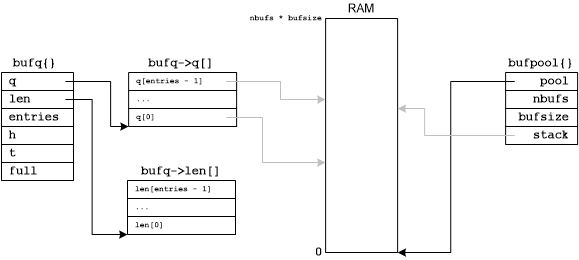
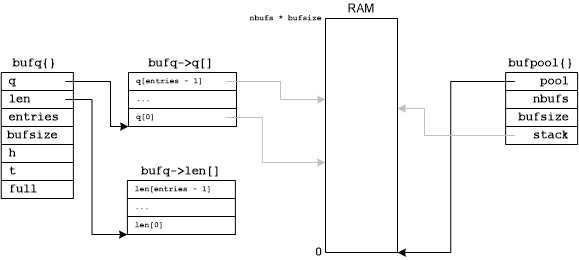
More work on bufq

diff --git a/src/bufq.cpp b/src/bufq.cpp
@@ -10,21 +10,25 @@
 // out of the buffers
 //
 
-bufq::bufq(int entries) {
+bufq::bufq(int entries, int bufsize) {
     int size = entries * sizeof(void *);
     this->q = (buf_t *) malloc(size);
     memset(this->q, 0, size);
 
     size = entries * sizeof(int);
-    this->size = (int *) malloc(size);
     this->len = (int *) malloc(size);
-    memset(this->size, 0, size);
     memset(this->len, 0, size);
 
     this->entries = entries;
+    this->bufsize = bufsize;
     this->h = 0;
     this->t = 0;
     this->full = false;
+}
+
+int
+bufq::get_bufsize() {
+    return this->bufsize;
 }
 
 //
@@ -48,12 +52,11 @@ bufq::get_length() {
 // Append a buf_t pointer to the tail of the queue
 //
 int
-bufq::append(buf_t buf, int size, int len) {
+bufq::append(buf_t buf, int len) {
     if (this->full)
         return (-1);
 
     this->q[t] = buf;
-    this->size[t] = size;
     this->len[t] = len;
     this->t = (this->t + 1) % this->entries;
     if (this->t == this->h)
@@ -66,13 +69,12 @@ bufq::append(buf_t buf, int size, int len) {
 // Remove a buf_t pointer from the head of the queue
 //
 buf_t
-bufq::remove(int *size, int *len) {
+bufq::remove(int *len) {
     if (!(this->full) && this->h == this->t) {
         *len = 0;
         return NULL;
     }
     buf_t buf = this->q[this->h];
-    *size = this->size[this->h];
     *len = this->len[this->h];
     this->h = (this->h + 1) % this->entries;
     if (this->full)
@@ -87,7 +89,7 @@ bufq::dump() {
         return;
 
     for (int i = this->h;;) {
-        printf("%p  %5d  %5d\r\n", this->q[i], this->size[i], this->len[i]);
+        printf("%p  %5d\r\n", this->q[i], this->len[i]);
 
         i = (i + 1) % this->entries;
         if (i == this->t)

diff --git a/include/buf.h b/include/buf.h
@@ -35,17 +35,18 @@ typedef class bufpool *bufpool_t;
 class bufq {
 private:
     buf_t *q;     // Array of buffer ptrs
-    int *size;    // Size of each buffer allocation
-    int *len;     // Current length of data contained in buffer <= size
+    int *len;     // Current length of data contained in buffer
     int entries;  // Number of entries in the buffer ptr array
+    int bufsize;  // Size of each buffers allocated memory
     int h, t;     // Queue head and tail indices in buffer ptr array
     bool full;    // Full flag
 
 public:
-    bufq(int entries);
+    bufq(int entries, int bufsize);
+    int get_bufsize();
     int get_length();
-    int append(buf_t buf, int size, int len);
-    buf_t remove(int *size, int *len);
+    int append(buf_t buf, int len);
+    buf_t remove(int *len);
     void dump();
     void dump_contents();
 };

diff --git a/src/cli/bufq_test.cpp b/src/cli/bufq_test.cpp
@@ -10,8 +10,9 @@ bufq_test() {
     printf("bufpool\r\n");
     bp->dump();
 
-    bq = new bufq(8);
-    printf("bufq length %d\r\n", bq->get_length());
+    bq = new bufq(8, 64);
+    printf("bufq length %d bufsize %d\r\n", bq->get_length(),
+           bq->get_bufsize());
     bq->dump();
     bq->dump_contents();
     printf("\r\n");
@@ -22,11 +23,12 @@ bufq_test() {
         if (buf == NULL)
             break;
 
-        bq->append(buf, 64, 0);
+        bq->append(buf, 0);
 
         printf("bufpool\r\n");
         bp->dump();
-        printf("bufq length %d\r\n", bq->get_length());
+        printf("bufq length %d bufsize %d\r\n", bq->get_length(),
+               bq->get_bufsize());
         bq->dump();
         bq->dump_contents();
         printf("\r\n");

diff --git a/README.md b/README.md
@@ -35,4 +35,10 @@ The use of a stack enables constant time insertion and removal operations
 that are acceptable for hard real-time applications.
 
 There is also a buffer queue that manages a set of buffer pointers in a
-First-In-First-Out queue.
+First-In-First-Out queue.  This data structure is based on an array of
+buffer pointers.  No buffers allocated as part of this data structure,
+it manages buffer pointers only.  The head and tail buffer pointers are
+indicies into this array that advance in a circular manner, i.e. when
+a head or tail buffer pointer reaches the end of the array, it returns
+to the first buffer pointer in the array.  Buffer pointers are inserted
+at the tail of the queue and removed from the head of the queue.
